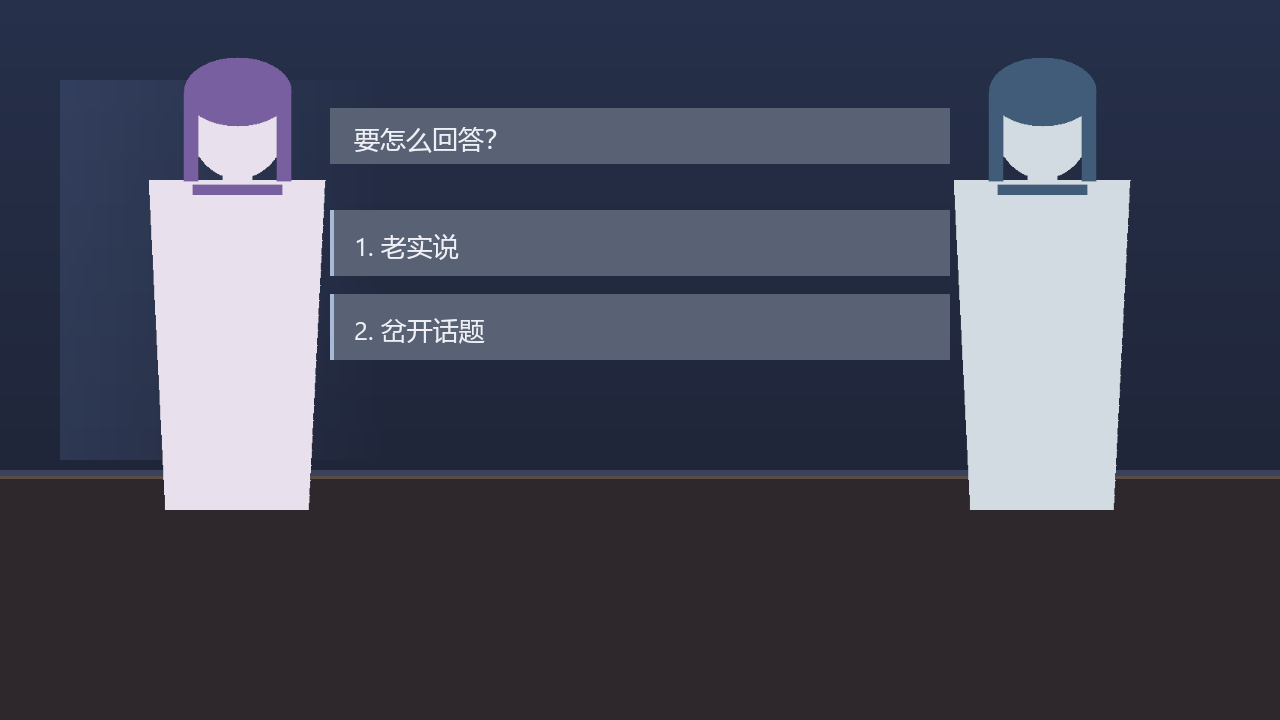
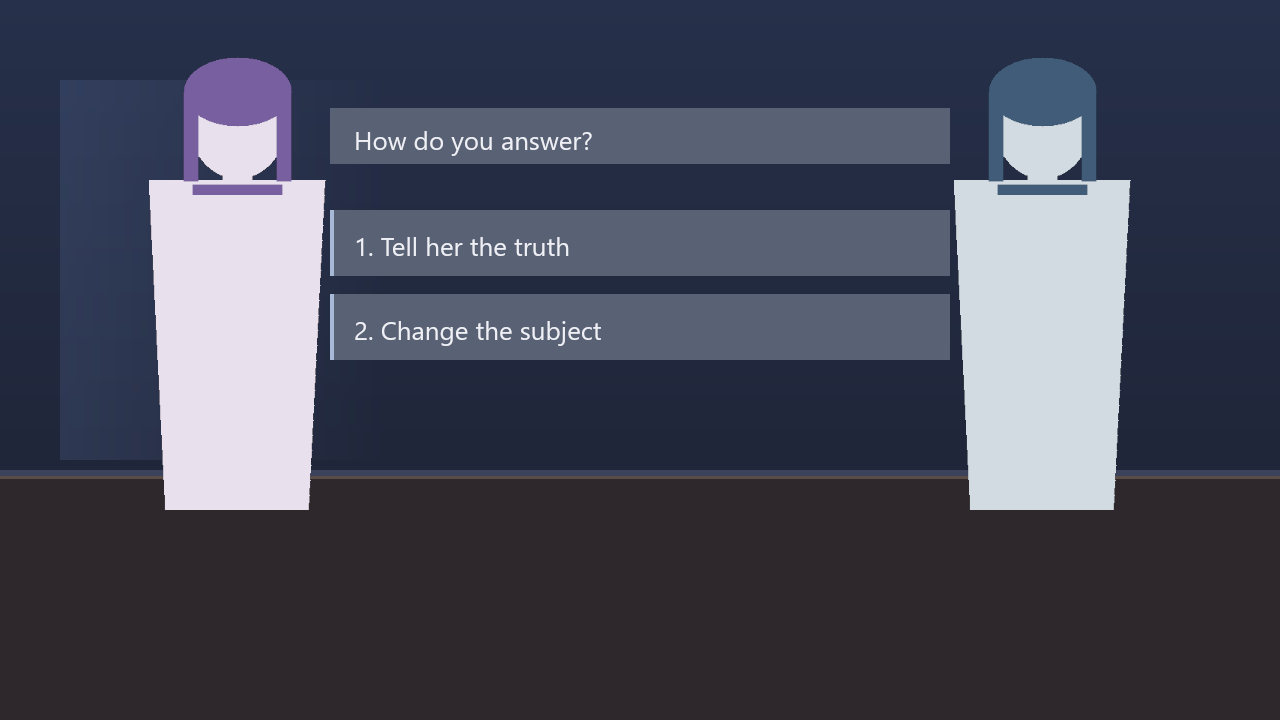
docs: write the demo script in English and stop tracking AGENTS.md
Two changes that both follow from the repository being public and English.

The demo script was Chinese while everything around it was English. A reader who
does not read Chinese could not tell what the screenshots actually say, and the
README quoted output they could not interpret. The script is now English, the
transcript in the README matches, and the screenshots are regenerated from it.

CJK support is not lost: crates/rustory-render/tests/edge_cases.rs feeds a Chinese
paragraph through the same shaping and line-breaking path and asserts that it wraps
onto several rows without bleeding past the wrap width. That test is what guards
the capability, not the demo content, so a script in any language still works.

AGENTS.md is now untracked alongside HANDOFF.md. It is the operating standard for
this checkout - it may name local paths, and it is written for whoever works here
rather than for a public audience. It also asserted that design decisions must live
in docs/adr/, which is exactly why it does not need to be versioned itself.

Verified: check reports 5 nodes / 18 beats / 1 choice / 1 handover; transcript
plays to an ending; screenshots regenerated; 83 tests pass.

Changed region(s): [[0.2812, 0.4278, 0.4688, 0.4889], [0.2812, 0.1528, 0.4688, 0.2139], [0.2812, 0.3056, 0.4375, 0.3667]]

diff --git a/README.md b/README.md
@@ -60,9 +60,9 @@ The demo runs without a window too:
 
 ```console
 $ cargo run -p rustory -- transcript stories/demo.ron
-放学后的教室，只剩下两个人。
-Yuki: 你还没走？
-Kai: 在等你。
+After school, the classroom holds only two people.
+Yuki: You haven't left yet?
+Kai: I was waiting for you.
 ...
 ```
 
@@ -145,8 +145,9 @@ Story(
 ```
 
 See [`stories/demo.ron`](stories/demo.ron) for a complete example, including a
-gameplay handover. The demo text is Chinese, which also exercises CJK shaping and
-line breaking.
+gameplay handover. Story text can be any language: CJK shaping and line breaking
+are exercised by a dedicated renderer test that pushes a Chinese paragraph through
+the same code path.
 
 ## Adding gameplay
 
